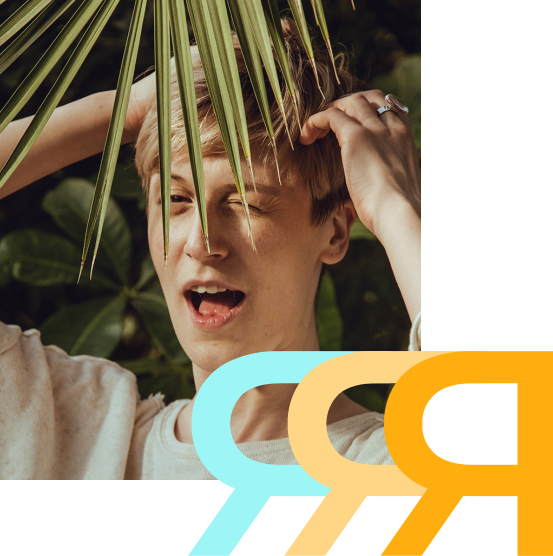
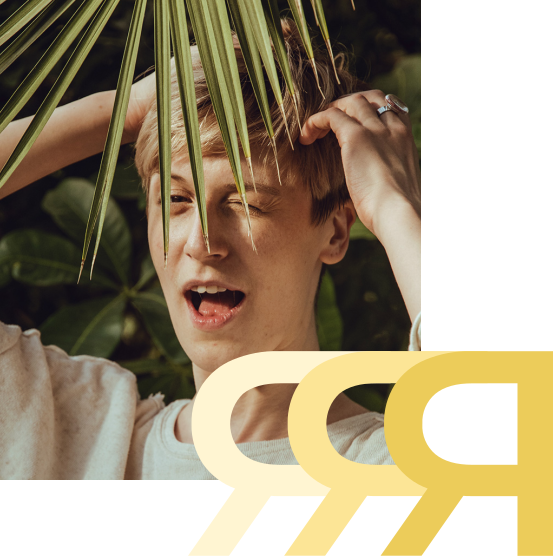
mage changes

Changed region(s): [[0.6763, 0.6115, 1.0, 1.0], [0.3382, 0.6115, 0.6456, 1.0]]

diff --git a/app/assets/stylesheets/application.scss b/app/assets/stylesheets/application.scss
@@ -25,7 +25,7 @@ body {
   font-style: normal;
   font-weight: 600;
   font-size: 16px;
-  color: #FFCA10 !important;
+  color: #FFAE10 !important;
 }
 
 .text-orange {
@@ -36,10 +36,10 @@ body {
 }
 
 .btn-outline-red {
-  border: 1.2px solid #EB7839;
+  border: 1.2px solid #BA2020;
   box-sizing: border-box;
   border-radius: 5.14286px;
-  color: #EB7839;
+  color: #BA2020;
   font-weight: 600;
 }
 
@@ -62,10 +62,10 @@ body {
 }
 
 .btn-outline-blue {
-  border: 1.2px solid #FFCA10;
+  border: 1.2px solid #FFAE10;
   box-sizing: border-box;
   border-radius: 5.14286px;
-  color: #FFCA10;
+  color: #FFAE10;
   font-weight: 600;
 }
 
@@ -171,10 +171,18 @@ header {
 .header-main {
   padding-top: 50px;
 }
+
 .header-heading {
-  margin-top: 13%;
+  margin-top: 18px;
+  margin-bottom: 24px;
 }
 
+@media only screen and (max-width: 768px) {
+  .header-heading {
+    margin-bottom: 24px;
+    font-size: 1.9rem;
+  }
+}
 @media only screen and (max-width: 600px) {
   .header-button {
     text-align: center;
@@ -194,14 +202,10 @@ header {
 }
 
 .header-images {
-  min-height: 355px;
+  min-height: 467px;
   background-image: image-url("home_bg.png");
   background-repeat: no-repeat;
   background-size: contain;
-}
-
-#header-mid-text {
-  margin-top: 50px;
 }
 
 .header-button {
@@ -211,6 +215,11 @@ header {
 #header-mid {
   padding-left: 12%;
   padding-right: 12%;
+}
+
+#header-mid-text {
+  color: #251007;
+  margin-top: 50px;
 }
 
 @media only screen and (max-width: 600px) {
@@ -273,11 +282,18 @@ header {
   margin-top: 150px;
 }
 
-.bold-font {
-  margin-top: 15px;
-  font-style: normal;
-  font-weight: bold;
+#services h3 {
   font-size: 21px;
+  margin-top: 48px;
+}
+
+@media only screen and (max-width: 768px) {
+  #services {
+    margin-top: 50px;
+  }
+  .bold-font {
+    font-size: 12pt;
+  }
 }
 
 @media only screen and (max-width: 500px) {
@@ -520,9 +536,21 @@ ul.points-orange {
   }
 }
 
-.box-content {
-  border-top: 3.57697px solid #FFFFFF;
-  padding-top: 10%;
+.box-content-red {
+  border-top: 3.57697px solid #BA2020;
+  padding-top: 36px;
+  grid-row: 1;
+}
+
+.box-content-yellow {
+  border-top: 3.57697px solid #ECCC5A;
+  padding-top: 36px;
+  grid-row: 1;
+}
+
+.box-content-orange {
+  border-top: 3.57697px solid #E77538;
+  padding-top: 36px;
   grid-row: 1;
 }
 
@@ -537,7 +565,7 @@ ul.points-orange {
 }
 
 .box-text {
-  color: white;
+  color: #251007;
   font-weight: 500;
   font-size: 21.1408px;
   line-height: 34px;
@@ -545,7 +573,7 @@ ul.points-orange {
 
 @media only screen and (max-width: 768px) {
   .box-text {
-    color: white;
+    color: #251007;
     font-weight: 500;
     font-size: 15px;
     line-height: inherit;
@@ -553,15 +581,15 @@ ul.points-orange {
 }
 
 .box-red {
-  background-color: #BA2020;
+  background-color: #F3C8C8;
 }
 
-.box-blue {
-  background-color: #71ADA7;
+.box-yellow {
+  background-color: #FFF5D2;
 }
 
 .box-orange {
-  background-color: #F1A47A;
+  background-color: #FED7C4;
 }
 
 footer {
@@ -581,7 +609,9 @@ footer {
 
   bottom: 0;
 }
-
+.m-left50 {
+  margin-left: 10px;
+}
 
 #footer-logo {
   min-width: 320px;
@@ -594,17 +624,18 @@ footer {
 
 .footer-text {
   margin-top: 25px;
-  font-size: 1rem;
+  font-size: 16px;
   line-height: 30px;
   color: #251007;
 }
 
 .footer-points h4 {
   font-weight: bold;
-
+  
+  line-height: 20px;
   letter-spacing: -0.015em;
   color: #251007;
-  font-size: 1.5rem;
+  font-size: 16px;
   line-height: 1rem;
 }
 
@@ -658,6 +689,7 @@ footer {
     margin-top: 0px;
   }
 }
+
 @media only screen and (max-width: 600px) {
   .text-muted {
     text-align: center;
@@ -704,4 +736,8 @@ footer {
   .m-25-top {
     margin-top: 25px;
   }
+}
+
+ul li {
+  color: #7E665B;
 }
